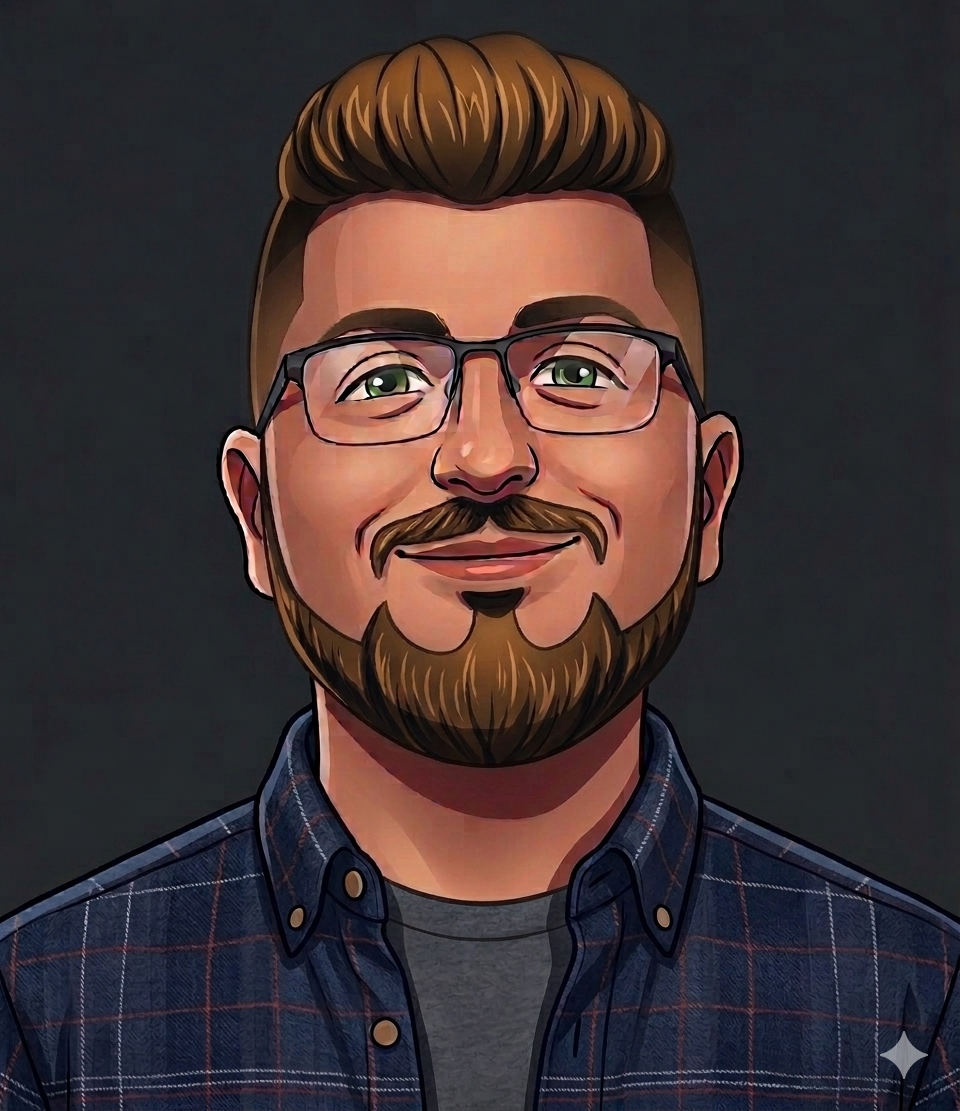
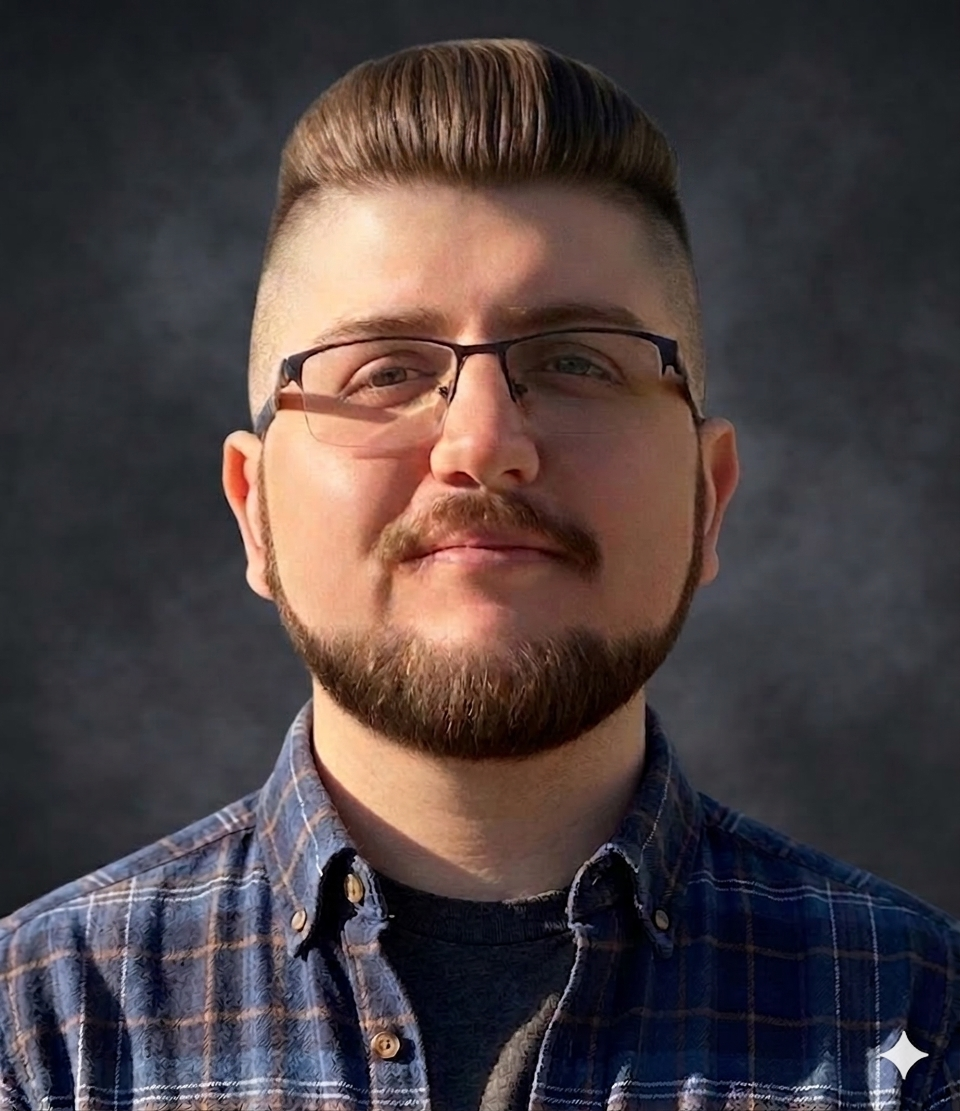
responsive improvements

diff --git a/src/components/Navbar.jsx b/src/components/Navbar.jsx
@@ -4,10 +4,10 @@ import { scrollToSection } from '../utils/smoothScroll'
 function Navbar({ data = [], brand = null }) {
   const hasBrand = Boolean(brand?.label && brand?.href);
   const [activeSection, setActiveSection] = useState('')
+  const [menuOpen, setMenuOpen] = useState(false)
 
   useEffect(() => {
     const sectionIds = data.map((item) => item.href.replace('#', ''))
-
     const observers = []
 
     sectionIds.forEach((id) => {
@@ -16,9 +16,7 @@ function Navbar({ data = [], brand = null }) {
 
       const io = new IntersectionObserver(
         ([entry]) => {
-          if (entry.isIntersecting) {
-            setActiveSection(id)
-          }
+          if (entry.isIntersecting) setActiveSection(id)
         },
         { rootMargin: '-30% 0px -60% 0px', threshold: 0 }
       )
@@ -27,46 +25,138 @@ function Navbar({ data = [], brand = null }) {
       observers.push(io)
     })
 
-    return () => {
-      observers.forEach((io) => io.disconnect())
-    }
+    return () => observers.forEach((io) => io.disconnect())
   }, [data])
+
+  // Cierra el menú al hacer scroll o resize
+  useEffect(() => {
+    if (!menuOpen) return
+    const close = () => setMenuOpen(false)
+    window.addEventListener('scroll', close, { passive: true })
+    window.addEventListener('resize', close)
+    return () => {
+      window.removeEventListener('scroll', close)
+      window.removeEventListener('resize', close)
+    }
+  }, [menuOpen])
+
+  function handleNavClick(sectionId) {
+    scrollToSection(sectionId)
+    setMenuOpen(false)
+  }
 
   return (
     <header className="sticky top-0 z-50 surface-glass nav-ghost-separator">
       <nav aria-label="Navegación principal" className="mx-auto max-w-6xl px-6 py-3">
-        <ul className="flex flex-wrap items-center font-label" style={{ gap: '2rem' }}>
+
+        {/* ── Row: brand + hamburger ── */}
+        <div className="flex items-center justify-between">
           {hasBrand ? (
-            <li>
-              <a
-                href={brand.href}
-                aria-label={`Ir a sección ${brand.label}`}
-                data-testid="navbar-brand-link"
-                className="inline-flex rounded-lg px-3 py-1.5 text-primary tonal-layer-1 transition-colors hover:tonal-layer-2"
-              >
-                {brand.label}
-              </a>
-            </li>
-          ) : null}
-          {data.map((item) => {
-            const sectionId = item.href.replace('#', '')
-            const isActive = activeSection === sectionId
-            return (
-              <li key={item.href}>
-                <button
-                  type="button"
-                  onClick={() => scrollToSection(sectionId)}
-                  aria-label={`Ir a sección ${item.label}`}
-                  aria-current={isActive ? 'true' : undefined}
-                  className={`nav-link${isActive ? ' is-active' : ''}`}
-                >
-                  {item.label}
-                  <span className="nav-underline" aria-hidden="true" />
-                </button>
-              </li>
-            )
-          })}
-        </ul>
+            <a
+              href={brand.href}
+              aria-label={`Ir a sección ${brand.label}`}
+              data-testid="navbar-brand-link"
+              className="inline-flex rounded-lg px-3 py-1.5 text-primary tonal-layer-1 transition-colors hover:tonal-layer-2 font-label text-xs uppercase"
+            >
+              {brand.label}
+            </a>
+          ) : <span />}
+
+          {/* Hamburger — solo visible en mobile */}
+          <button
+            type="button"
+            aria-label={menuOpen ? 'Cerrar menú' : 'Abrir menú'}
+            aria-expanded={menuOpen}
+            aria-controls="mobile-menu"
+            onClick={() => setMenuOpen((v) => !v)}
+            className="md:hidden flex flex-col justify-center items-center gap-[5px] p-2 rounded-lg tonal-layer-1 hover:tonal-layer-2 transition-colors"
+            style={{ background: 'none', border: 'none', cursor: 'pointer' }}
+          >
+            <span
+              style={{
+                display: 'block', width: 20, height: 2,
+                background: menuOpen ? 'var(--primary)' : 'var(--on-surface-variant)',
+                borderRadius: 2,
+                transition: 'transform 0.2s ease, opacity 0.2s ease',
+                transform: menuOpen ? 'translateY(7px) rotate(45deg)' : 'none',
+              }}
+            />
+            <span
+              style={{
+                display: 'block', width: 20, height: 2,
+                background: menuOpen ? 'var(--primary)' : 'var(--on-surface-variant)',
+                borderRadius: 2,
+                transition: 'opacity 0.15s ease',
+                opacity: menuOpen ? 0 : 1,
+              }}
+            />
+            <span
+              style={{
+                display: 'block', width: 20, height: 2,
+                background: menuOpen ? 'var(--primary)' : 'var(--on-surface-variant)',
+                borderRadius: 2,
+                transition: 'transform 0.2s ease',
+                transform: menuOpen ? 'translateY(-7px) rotate(-45deg)' : 'none',
+              }}
+            />
+          </button>
+
+          {/* Links desktop — ocultos en mobile */}
+          <ul className="hidden md:flex items-center font-label" style={{ gap: '2rem' }}>
+            {data.map((item) => {
+              const sectionId = item.href.replace('#', '')
+              const isActive = activeSection === sectionId
+              return (
+                <li key={item.href}>
+                  <button
+                    type="button"
+                    onClick={() => handleNavClick(sectionId)}
+                    aria-label={`Ir a sección ${item.label}`}
+                    aria-current={isActive ? 'true' : undefined}
+                    className={`nav-link${isActive ? ' is-active' : ''}`}
+                  >
+                    {item.label}
+                    <span className="nav-underline" aria-hidden="true" />
+                  </button>
+                </li>
+              )
+            })}
+          </ul>
+        </div>
+
+        {/* ── Menú mobile desplegable ── */}
+        <div
+          id="mobile-menu"
+          aria-hidden={!menuOpen}
+          style={{
+            overflow: 'hidden',
+            maxHeight: menuOpen ? `${data.length * 52}px` : '0',
+            transition: 'max-height 0.3s ease',
+          }}
+        >
+          <ul className="flex flex-col py-2 font-label" style={{ gap: '0.25rem' }}>
+            {data.map((item) => {
+              const sectionId = item.href.replace('#', '')
+              const isActive = activeSection === sectionId
+              return (
+                <li key={item.href}>
+                  <button
+                    type="button"
+                    onClick={() => handleNavClick(sectionId)}
+                    aria-label={`Ir a sección ${item.label}`}
+                    aria-current={isActive ? 'true' : undefined}
+                    className={`nav-link w-full text-left py-3${isActive ? ' is-active' : ''}`}
+                    tabIndex={menuOpen ? 0 : -1}
+                  >
+                    {item.label}
+                    <span className="nav-underline" aria-hidden="true" />
+                  </button>
+                </li>
+              )
+            })}
+          </ul>
+        </div>
+
       </nav>
     </header>
   );

diff --git a/src/components/Hero.jsx b/src/components/Hero.jsx
@@ -35,7 +35,7 @@ function Hero({ data }) {
         pointerEvents: 'none',
         zIndex: 1,
       }} />
-      <motion.div className="space-y-5" data-testid="hero-reveal-block" style={{ position: 'relative', zIndex: 2 }} {...reveal}>
+      <motion.div className="space-y-5 text-center sm:text-left" data-testid="hero-reveal-block" style={{ position: 'relative', zIndex: 2 }} {...reveal}>
         <p className="font-label text-xs uppercase text-primary">{data?.location}</p>
         <h1 id="hero-heading" className="text-4xl font-headline font-bold md:text-6xl">
           {givenNames ? `${givenNames} ` : ""}
@@ -44,7 +44,7 @@ function Hero({ data }) {
         <p className="text-xl text-on-surface-variant">{data?.title}</p>
         <p className="max-w-2xl text-on-surface-variant">{data?.tagline}</p>
 
-        <div className="pt-2 flex flex-wrap gap-3">
+        <div className="pt-2 flex flex-wrap gap-3 justify-center sm:justify-start">
           {ctas.map((cta) => (
               <CTAButton
                 key={cta.label}

diff --git a/src/components/Contact.jsx b/src/components/Contact.jsx
@@ -145,7 +145,7 @@ function Contact({ data }) {
             type="submit"
             disabled={submitStatus === "sending"}
             aria-label={data?.form?.submitLabel}
-            className={`inline-flex items-center justify-center rounded-xl bg-primary px-5 py-3 font-label text-xs uppercase tracking-[0.05em] text-surface shadow-ambient-primary transition-colors hover:bg-primary/90 hover:shadow-[0_0_28px_rgba(107,255,143,0.28)] disabled:cursor-not-allowed disabled:opacity-70 ${
+            className={`inline-flex items-center justify-center rounded-xl bg-primary px-5 py-3 font-label text-xs uppercase tracking-[0.05em] text-surface shadow-ambient-primary transition-colors hover:bg-primary/90 hover:shadow-[0_0_28px_rgba(107,255,143,0.28)] disabled:cursor-not-allowed disabled:opacity-70 w-full sm:w-auto mx-auto sm:mx-0 block sm:inline-flex ${
               reduce ? "motion-reduce-safe" : ""
             }`.trim()}
           >
